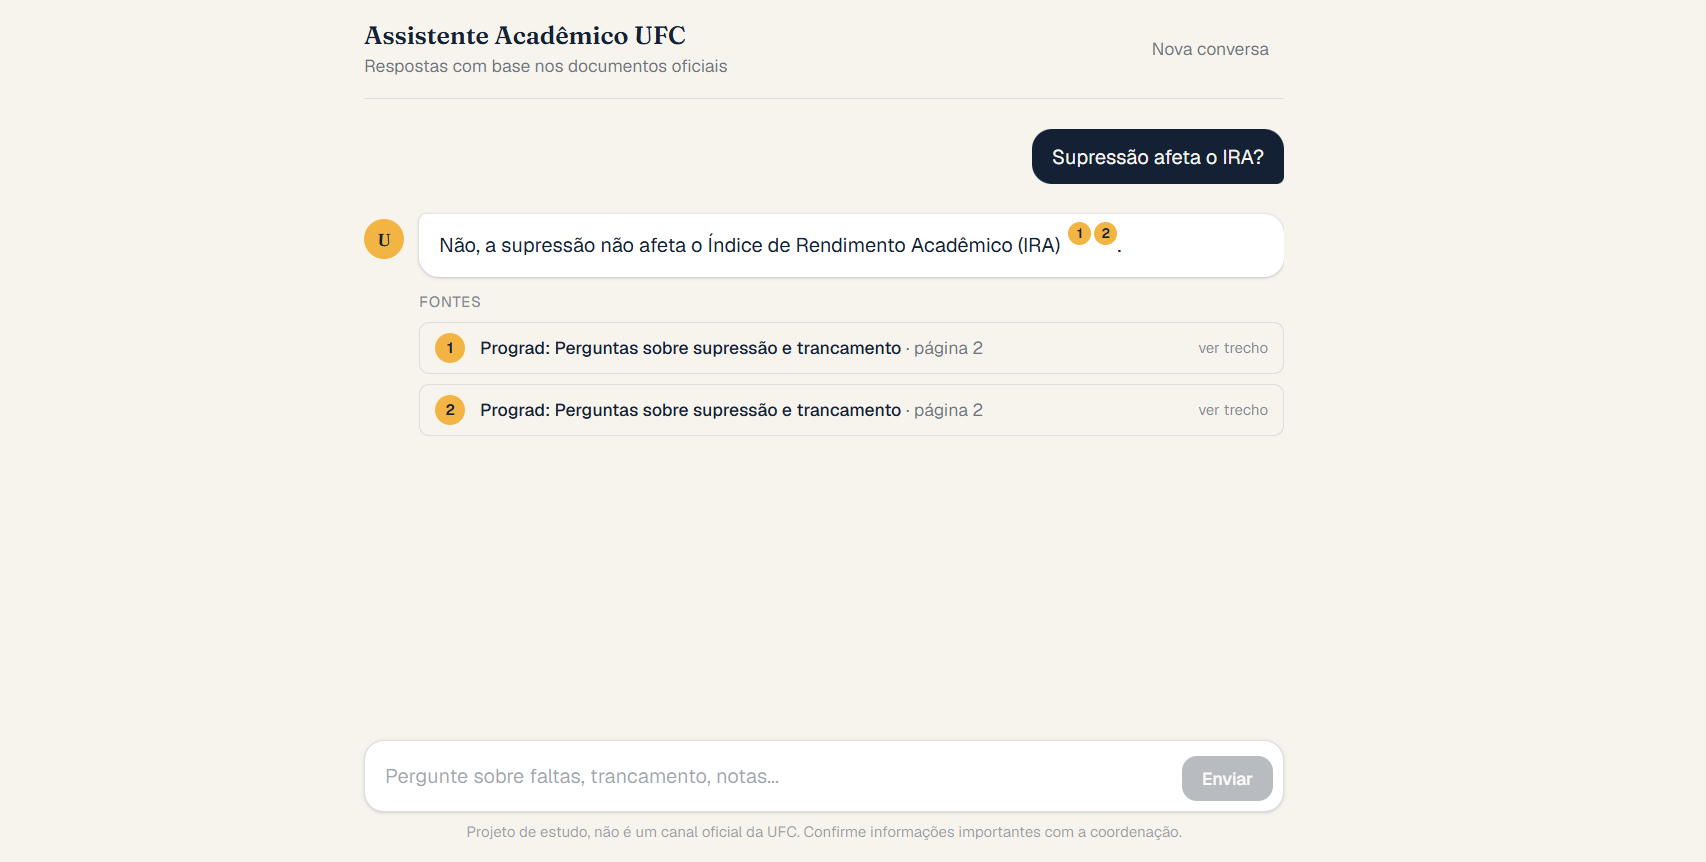
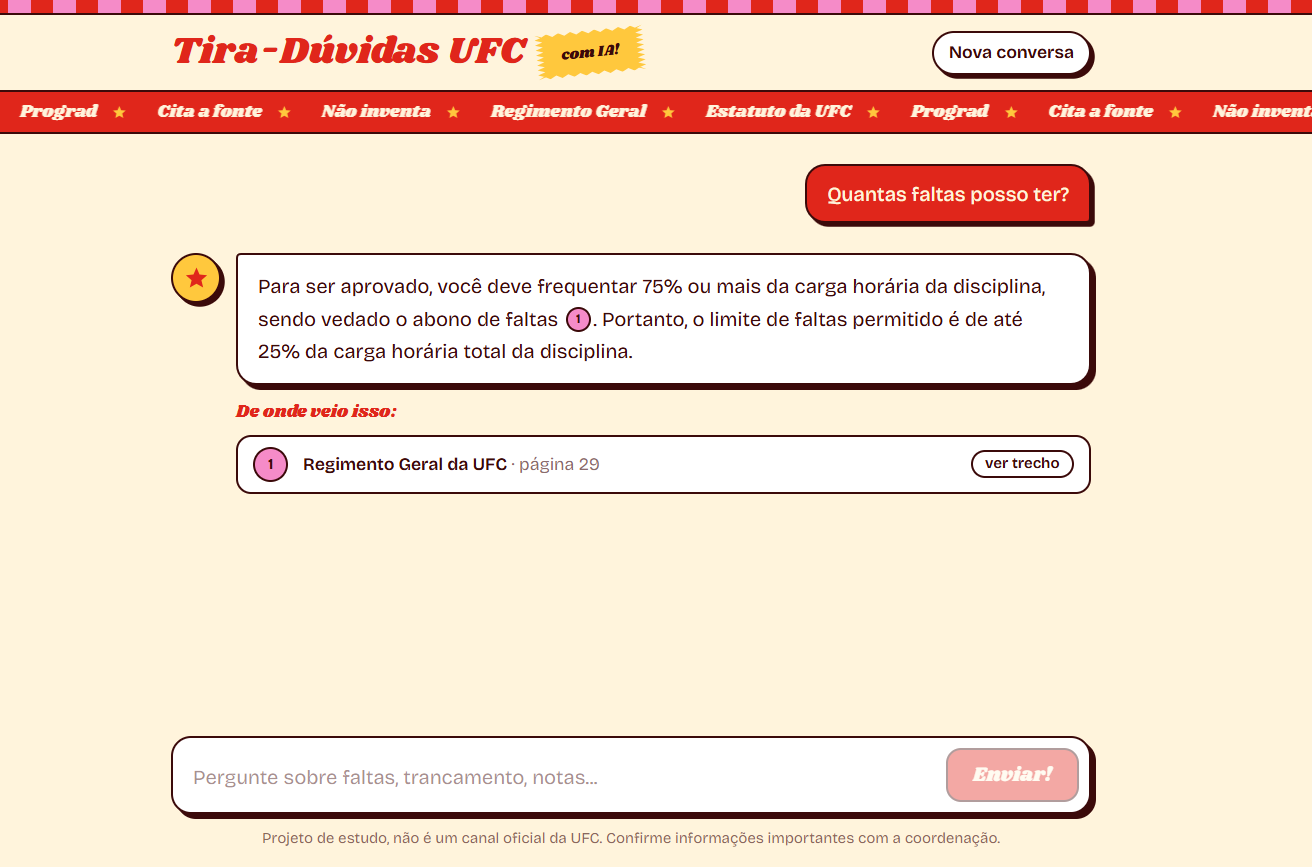
Mais modelos reserva, incluindo Gemma

Changed region(s): [[0.0, 0.0, 1.0, 0.5731], [0.125, 0.8445, 0.8438, 0.9954]]

diff --git a/backend/app/resposta.py b/backend/app/resposta.py
@@ -15,7 +15,7 @@ import time
 from google.genai import errors, types
 
 from app.busca import buscar
-from app.config import MODELO_LLM, MODELO_RESERVA, nome_do_documento
+from app.config import MODELO_LLM, MODELO_RESERVA, MODELOS_EXTRAS, nome_do_documento
 from app.embeddings import cliente
 
 QUANTIDADE_TRECHOS = 6
@@ -47,10 +47,12 @@ ERROS_TEMPORARIOS = (429, 500, 503, 504)
 
 
 def montar_config(modelo: str) -> types.GenerateContentConfig:
-    config = types.GenerateContentConfig(
-        system_instruction=INSTRUCOES,
-        temperature=0.1,  # baixa = respostas mais fiéis e menos "criativas"
-    )
+    config = types.GenerateContentConfig(temperature=0.1)  # baixa = respostas mais fiéis
+    if modelo.startswith("gemma"):
+        # O Gemma não aceita "instruções de sistema" nem controle de pensamento.
+        # As regras vão junto com a pergunta (ver montar_conteudo).
+        return config
+    config.system_instruction = INSTRUCOES
     # Diminui o "pensamento" do modelo: responde mais rápido e gasta menos cota
     if modelo.startswith("gemini-2.5"):
         config.thinking_config = types.ThinkingConfig(thinking_budget=0)
@@ -59,30 +61,38 @@ def montar_config(modelo: str) -> types.GenerateContentConfig:
     return config
 
 
+def montar_conteudo(modelo: str, prompt: str) -> str:
+    if modelo.startswith("gemma"):
+        return f"{INSTRUCOES}\n\n{prompt}"
+    return prompt
+
+
 def chamar_gemini(prompt: str) -> str:
-    """Tenta o modelo principal 3 vezes. Se continuar falhando, tenta o modelo reserva."""
-    modelos = list(dict.fromkeys([MODELO_LLM, MODELO_RESERVA]))  # sem repetir se forem iguais
+    """Tenta cada modelo da lista (até 2 vezes cada) até um responder.
+
+    Ordem: principal → reserva → extras. Se um modelo estiver lotado ou não existir,
+    passa para o próximo. Assim, um pico de uso num modelo não derruba o assistente.
+    """
+    modelos = list(dict.fromkeys([MODELO_LLM, MODELO_RESERVA, *MODELOS_EXTRAS]))  # sem repetir
     ultimo_erro = None
     for n, modelo in enumerate(modelos):
         if n > 0:
-            print(f"  Trocando para o modelo reserva ({modelo})...")
-        for tentativa in range(3):
+            print(f"  Tentando outro modelo: {modelo}...")
+        for tentativa in range(2):
             try:
                 resposta = cliente.models.generate_content(
-                    model=modelo, contents=prompt, config=montar_config(modelo)
+                    model=modelo, contents=montar_conteudo(modelo, prompt), config=montar_config(modelo)
                 )
                 return (resposta.text or "").strip()
             except errors.APIError as erro:
                 ultimo_erro = erro
-                if erro.code == 404:
-                    print(f"  Modelo {modelo} não encontrado, pulando.")
-                    break
-                if erro.code not in ERROS_TEMPORARIOS:
-                    raise
-                if tentativa < 2:
-                    espera = 10 * 2**tentativa  # 10s, 20s
-                    print(f"  {modelo} respondeu erro {erro.code}. Esperando {espera}s...")
-                    time.sleep(espera)
+                if erro.code in ERROS_TEMPORARIOS and tentativa == 0:
+                    print(f"  {modelo} respondeu erro {erro.code}. Esperando 8s...")
+                    time.sleep(8)
+                    continue
+                # 404 (não existe), 400 (não aceita alguma opção) ou lotado de novo: próximo modelo
+                print(f"  {modelo} falhou (erro {erro.code}), pulando.")
+                break
     raise ultimo_erro
 
 

diff --git a/backend/app/config.py b/backend/app/config.py
@@ -20,7 +20,14 @@ DIMENSOES = 768
 # Modelo que escreve a resposta. Dá pra trocar no .env sem mexer no código
 MODELO_LLM = os.getenv("MODELO_LLM", "gemini-3.8-flash")
 # Modelo reserva: usado quando o principal está ocupado ou lento
-MODELO_RESERVA = os.getenv("MODELO_RESERVA", "gemini-3.1-flash-lite")
+MODELO_RESERVA = os.getenv("MODELO_RESERVA", "gemini-3.8-flash")
+# Mais opções, separadas por vírgula, para quando o Gemini estiver lotado.
+# O Gemma é um modelo aberto do Google, também grátis na mesma chave e com fila separada.
+MODELOS_EXTRAS = [
+    m.strip()
+    for m in os.getenv("MODELOS_EXTRAS", "gemini-3.5-flash-lite,gemma-4-31b-it").split(",")
+    if m.strip()
+]
 
 # Nomes bonitos para mostrar nas fontes
 NOMES_DOCUMENTOS = {
